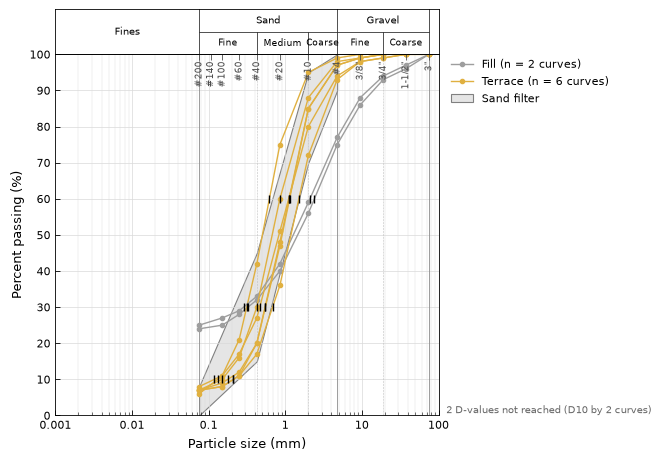
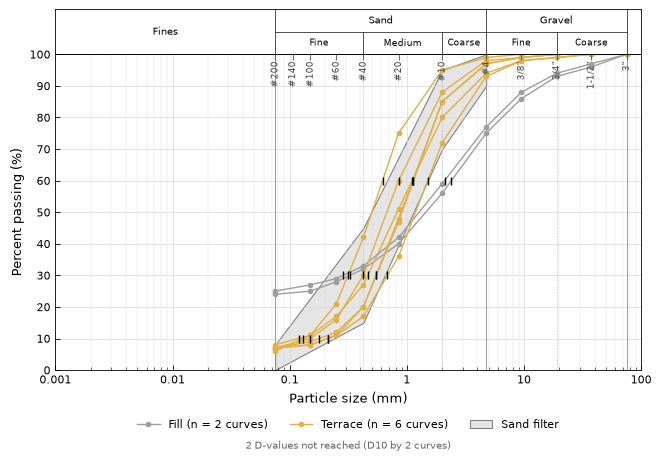
P05: put the legend and footnote below the axes
On the right they took width the log size axis needs to read sizes off.
add_legend() and Notes.render() gain where="bottom": the legend centered
under the x label in up to four columns, the footnote under it. Other
plots keep theirs on the right (P00 §11, P05 §5).

diff --git a/src/hangtu/plot/_notes.py b/src/hangtu/plot/_notes.py
@@ -5,8 +5,10 @@ counted here and listed in a footnote.
 """
 
 from collections.abc import Mapping
+from typing import Literal
 
 import numpy as np
+from matplotlib.artist import Artist
 from matplotlib.axes import Axes
 from matplotlib.text import Annotation
 from numpy.typing import ArrayLike
@@ -86,8 +88,18 @@ class Notes:
         ]
         return counts + self.texts
 
-    def render(self, ax: Axes, offset: float = 0.0) -> Annotation | None:
+    def render(
+        self,
+        ax: Axes,
+        offset: float = 0.0,
+        where: Literal["right", "bottom"] = "right",
+        below: Artist | None = None,
+    ) -> Annotation | None:
         """Write the footnote to the right of the axes, below the legend.
+
+        With ``where="bottom"`` it goes under the axes instead, centered
+        below ``below`` (the bottom legend) or, without one, below the x
+        label, ``offset`` points under the axes.
 
         Also sets ``ax.ags_notes`` to the counts, so users and tests can read
         them. ``offset`` is extra space in points between the axes and the
@@ -98,6 +110,23 @@ class Notes:
         lines = self.lines()
         if not lines:
             return None
+        if where == "bottom":
+            anchor = {"xy": (0.5, 0.0), "xytext": (0.0, -4.0)}
+            if below is None:
+                anchor["xycoords"] = "axes fraction"
+                anchor["xytext"] = (0.0, -offset)
+            else:
+                anchor["xycoords"] = below
+            return ax.annotate(
+                "\n".join(lines),
+                textcoords="offset points",
+                ha="center",
+                va="top",
+                fontsize=FOOTNOTE_SIZE,
+                color=FOOTNOTE_COLOR,
+                annotation_clip=False,
+                **anchor,
+            )
         return ax.annotate(
             "\n".join(lines),
             xy=(1.02, 0.0),

diff --git a/src/hangtu/plot/_legend.py b/src/hangtu/plot/_legend.py
@@ -2,6 +2,7 @@
 
 import math
 from collections.abc import Sequence
+from typing import Literal
 
 from matplotlib.artist import Artist
 from matplotlib.axes import Axes
@@ -12,6 +13,9 @@ from hangtu.plot._notes import Notes
 
 MAX_ROWS = 12
 MAX_ENTRIES = 30
+BOTTOM_COLUMNS = 4  # legend columns below the axes
+#: Points from the bottom of the axes to below the tick labels and the x label.
+BELOW_X_LABEL = 32.0
 
 
 def add_legend(
@@ -19,8 +23,9 @@ def add_legend(
     sections: Sequence[Sequence[Artist]],
     notes: Notes,
     offset: float = 0.0,
+    where: Literal["right", "bottom"] = "right",
 ) -> Legend | None:
-    """Add the legend outside the axes on the right.
+    """Add the legend outside the axes, on the right or below the x label.
 
     Parameters
     ----------
@@ -35,6 +40,9 @@ def add_legend(
     offset
         Extra space in points between the axes and the legend, e.g. for a
         secondary axis on the right.
+    where
+        ``"right"`` (the default), or ``"bottom"``: centered under the x
+        label in up to four columns, for plots whose width is precious (P05).
 
     Returns
     -------
@@ -51,6 +59,19 @@ def add_legend(
             else f"{len(handles)} legend entries not shown"
         )
         return None
+    if where == "bottom":
+        return ax.legend(
+            handles=handles,
+            loc="upper center",
+            bbox_to_anchor=(0.5, 0.0),
+            bbox_transform=offset_copy(
+                ax.transAxes, ax.figure, y=-BELOW_X_LABEL - offset, units="points"
+            ),
+            borderaxespad=0.0,
+            frameon=False,
+            fontsize=8,
+            ncols=min(len(handles), BOTTOM_COLUMNS),
+        )
     return ax.legend(
         handles=handles,
         loc="upper left",

diff --git a/tests/plot/test_grain_size.py b/tests/plot/test_grain_size.py
@@ -255,3 +255,30 @@ def test_on_a_sheet_and_no_global_state(assert_no_global_state):
     sheet = ht.Sheet("letter", layout=(1, 2))
     assert_no_global_state(ht.plot.grain_size, df, ax=sheet[1])
     plt.close(sheet.figure)
+
+
+# --- Legend and footnote below the axes (§5) ---------------------------------
+
+
+def test_legend_and_footnote_sit_below_the_x_label():
+    df = curves(("A", *CURVE_A), ("S", [0.075], [10]))
+    fig, ax = ht.plot.grain_size(df)
+    fig.canvas.draw()
+    renderer = fig.canvas.get_renderer()
+    label = ax.xaxis.label.get_window_extent(renderer)
+    legend = ax.get_legend().get_window_extent(renderer)
+    footnote = ax.texts[-1].get_window_extent(renderer)
+    assert legend.y1 <= label.y0
+    assert footnote.y1 <= legend.y0
+    # Nothing beside the axes on the right.
+    assert legend.x1 <= ax.get_window_extent().x1
+    assert footnote.x1 <= ax.get_window_extent().x1
+
+
+def test_footnote_without_a_legend_sits_below_the_x_label():
+    fig, ax = ht.plot.grain_size(pd.DataFrame(), note="No grading tests")
+    fig.canvas.draw()
+    renderer = fig.canvas.get_renderer()
+    assert ax.get_legend() is None
+    footnote = ax.texts[-1].get_window_extent(renderer)
+    assert footnote.y1 <= ax.xaxis.label.get_window_extent(renderer).y0

diff --git a/src/hangtu/plot/_grain_size.py b/src/hangtu/plot/_grain_size.py
@@ -25,7 +25,7 @@ from hangtu.analysis._gradation import (
 from hangtu.errors import ColumnError, HangtuError, warn
 from hangtu.plot import _envelopes, _fraction_band, _layers, _values, style
 from hangtu.plot._hints import hint_missing
-from hangtu.plot._legend import add_legend
+from hangtu.plot._legend import BELOW_X_LABEL, add_legend
 from hangtu.plot._limits import clear_of_data, log_limits, set_log_axis
 from hangtu.plot._notes import Notes, edge_markers
 from hangtu.plot._palette import AUTOMATIC
@@ -473,6 +473,7 @@ def grain_size(
                 color="0.4",
                 zorder=_layers.ANNOTATIONS,
             )
-        add_legend(ax, [handles, envelope_handles], notes)
-        notes.render(ax)
+        # Below the axes: a legend on the right crowds the log axis (§5).
+        legend = add_legend(ax, [handles, envelope_handles], notes, where="bottom")
+        notes.render(ax, BELOW_X_LABEL, where="bottom", below=legend)
     return fig, ax

diff --git a/docs/work/m8-index-plots.md b/docs/work/m8-index-plots.md
@@ -315,13 +315,14 @@ Two commits, no change in behavior:
 - Look at `P05-us.png` and `P05-si.png` against the §2 reference figure and the "A good version" list.
 
 ### Results
-- 1844 tests pass on Python 3.12, 3.13 and 3.14, and with the lowest dependency versions (matplotlib 3.8.0, numpy 1.26.0, pandas 2.1.1), where the `append_axes` header and `sharex` work as on 3.11. The wheel has `config/sieves.yaml`, `_grain_size.py`, `_fraction_band.py`, `_envelopes.py` and the `envelopes` template.
+- 1844 tests (1846 after the legend move) pass on Python 3.12, 3.13 and 3.14, and with the lowest dependency versions (matplotlib 3.8.0, numpy 1.26.0, pandas 2.1.1), where the `append_axes` header and `sharex` work as on 3.11. The wheel has `config/sieves.yaml`, `_grain_size.py`, `_fraction_band.py`, `_envelopes.py` and the `envelopes` template.
 - **Commits:** the two refactors (Build 0), then one per build step, with Build 3 split in two (`P05: draw D-values`, `P05: draw envelopes from a table`) because it passed 300 lines. One fix the lowest-versions run found: `P05: label decades without floating-point noise` (matplotlib 3.8 gave the 0.1 tick as 0.09999999999999999).
 - **Changes from the plan**, each recorded in P05 in its commit or the close-out:
   - The label color check went to `_values.label_colors()` rather than staying in `_regions.py`, so `_envelopes.py` doesn't import from P04's module.
   - A fraction name is left out when its visible part is narrower than 0.25 decade, not 0.15: at 0.15, "Cobbles" (63–100 mm in view) ran past its cell (§8).
   - The US sieve designations are written in ASCII (`1-1/2"`, `3/4"`, `3/8"`), so a font without the fraction glyphs can't raise a missing-glyph warning, which the tests treat as an error (§8).
   - A D-value beyond `xlim=` isn't drawn and is counted as beyond the axis limit (§11).
+  - After review, the legend and footnote moved below the x label (`add_legend(..., where="bottom")` and `Notes.render(..., where="bottom")`, P00 §11, P05 §5): on the right they took width the log axis needs. The images were redrawn.
   - `README.md` gets a `grain_size()` line in the AGS example (it runs with no warning), and its "Plots" line now names the plasticity chart and the grain size curves.
 - **Example project:** `grain_size(p.grain_size(), d_values=True)` runs with no warning or hint; its footnote counts D10 not reached by the two Fill curves, which stop at 24 % and 25 % passing. On the datasets' good files (datasets.md §13 #14) it runs with no warning or hint.
 - SPEC §11 has the `grain_size()` call. `TODO.md` #5 lists the sieve lists to verify; it stays open.

diff --git a/docs/plots/P00-framework.md b/docs/plots/P00-framework.md
@@ -159,7 +159,7 @@ Helpers: `nice_limits(vmin, vmax, *, start_at_zero)`, `log_limits(vmin, vmax, mi
 - `palette_cmap(units)` returns a `ListedColormap` in unit order; `legend_handles(units)` returns patches for a stand-alone legend.
 
 ## 11. Legends and hints
-- **Legend:** outside the axes on the right, no frame, 8 pt. Sections in order: units (colors), then marker groups, then special markers (qualifiers, edge markers) with counts. More than 12 entries → columns of up to 12; more than 30 → no legend, and a note saying "n units: see ht.plot.legend_handles()". `add_legend(..., offset=)` and `Notes.render(ax, offset=)` move the legend and footnote further right, in points, to clear a secondary axis.
+- **Legend:** outside the axes on the right, no frame, 8 pt. Sections in order: units (colors), then marker groups, then special markers (qualifiers, edge markers) with counts. More than 12 entries → columns of up to 12; more than 30 → no legend, and a note saying "n units: see ht.plot.legend_handles()". `add_legend(..., offset=)` and `Notes.render(ax, offset=)` move the legend and footnote further right, in points, to clear a secondary axis. `where="bottom"` on both puts them under the x label instead, the legend centered in up to four columns and the footnote below it, for a plot whose width is precious (P05).
 - **Hints** (plots README, "Input data"): `hint_missing(df, optional)` collects missing optional columns with a short reason each and issues **one** `HangtuHint` per call, unless `settings.hints` is `False`. The warning's `stacklevel` points at the user's line.
 
 ## 12. Errors

diff --git a/docs/plots/P05-grain-size.md b/docs/plots/P05-grain-size.md
@@ -60,6 +60,7 @@ Draws particle-size distribution curves, one per specimen, on a log size axis, w
 
 ## 5. Figure layout
 - **Panels:** the main axes, plus a thin header axes above it sharing x (the fraction band, about 0.45 in high). It's one figure element: with `ax=`, the header is carved from the top of the axes given, so the plot still composes on a `Sheet`.
+- **Legend and footnote** go below the x label, centered, the legend in up to four columns and the footnote under it, rather than on the right as on other plots: a column beside the axes squeezes the log axis, which needs its width to read sizes.
 - **Default size:** `default` (6.5 × 4.5 in), landscape. `figsize=` covers a full Letter landscape sheet.
 - `fig, ax` returns the main axes; the header is `ax.grain_size_header` (None with `fractions=None`). It is made with `make_axes_locatable(ax).append_axes("top", size=0.45, pad=0, sharex=ax)`, which works under constrained layout.
 

diff --git a/docs/plots/README.md b/docs/plots/README.md
@@ -43,7 +43,7 @@ Each figure is a separate feature with its own spec file in this folder, written
 
 ### Color and markers
 - Color encodes the **geology unit** by default (the session or project palette, SPEC §3; stable across all plots). Marker shape encodes a secondary grouping (e.g. `loca_id` or test type) when requested.
-- The legend sits outside the plotting area on the right. With more than 12 entries it splits into columns, and with more than 30 it is replaced by a note.
+- The legend sits outside the plotting area on the right (P05: below the x label, with the footnote under it). With more than 12 entries it splits into columns, and with more than 30 it is replaced by a note.
 - Color is never the only carrier of meaning that matters. Zones and lines are also labeled.
 
 ### Overlays and annotations
